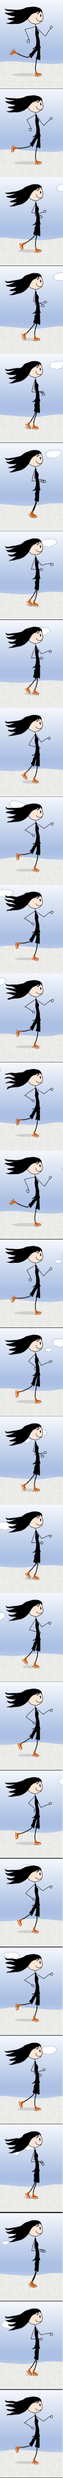
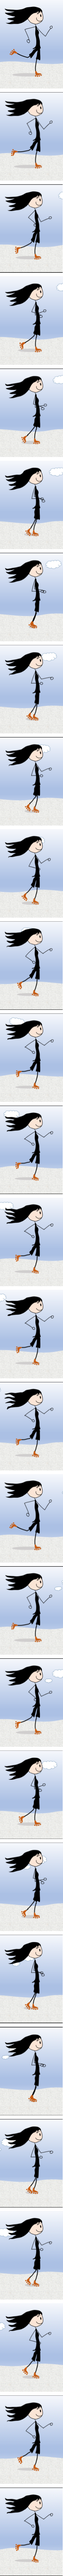
20180723-04

diff --git a/docs/out.js b/docs/out.js
@@ -97,6 +97,28 @@ eval("// extracted by mini-css-extract-plugin\n\n//# sourceURL=webpack:///./css/
 
 /***/ }),
 
+/***/ "./img/github.png":
+/*!************************!*\
+  !*** ./img/github.png ***!
+  \************************/
+/*! no static exports found */
+/***/ (function(module, exports) {
+
+eval("module.exports = \"images/github.png\";\n\n//# sourceURL=webpack:///./img/github.png?");
+
+/***/ }),
+
+/***/ "./img/linkedin.png":
+/*!**************************!*\
+  !*** ./img/linkedin.png ***!
+  \**************************/
+/*! no static exports found */
+/***/ (function(module, exports) {
+
+eval("module.exports = \"images/linkedin.png\";\n\n//# sourceURL=webpack:///./img/linkedin.png?");
+
+/***/ }),
+
 /***/ "./js/AboutMe.jsx":
 /*!************************!*\
   !*** ./js/AboutMe.jsx ***!
@@ -141,7 +163,7 @@ eval("\n\nvar _createClass = function () { function defineProperties(target, pro
 /***/ (function(module, exports, __webpack_require__) {
 
 "use strict";
-eval("\n\nvar _createClass = function () { function defineProperties(target, props) { for (var i = 0; i < props.length; i++) { var descriptor = props[i]; descriptor.enumerable = descriptor.enumerable || false; descriptor.configurable = true; if (\"value\" in descriptor) descriptor.writable = true; Object.defineProperty(target, descriptor.key, descriptor); } } return function (Constructor, protoProps, staticProps) { if (protoProps) defineProperties(Constructor.prototype, protoProps); if (staticProps) defineProperties(Constructor, staticProps); return Constructor; }; }();\n\nvar _react = __webpack_require__(/*! react */ \"./node_modules/react/react.js\");\n\nvar _react2 = _interopRequireDefault(_react);\n\nfunction _interopRequireDefault(obj) { return obj && obj.__esModule ? obj : { default: obj }; }\n\nfunction _classCallCheck(instance, Constructor) { if (!(instance instanceof Constructor)) { throw new TypeError(\"Cannot call a class as a function\"); } }\n\nfunction _possibleConstructorReturn(self, call) { if (!self) { throw new ReferenceError(\"this hasn't been initialised - super() hasn't been called\"); } return call && (typeof call === \"object\" || typeof call === \"function\") ? call : self; }\n\nfunction _inherits(subClass, superClass) { if (typeof superClass !== \"function\" && superClass !== null) { throw new TypeError(\"Super expression must either be null or a function, not \" + typeof superClass); } subClass.prototype = Object.create(superClass && superClass.prototype, { constructor: { value: subClass, enumerable: false, writable: true, configurable: true } }); if (superClass) Object.setPrototypeOf ? Object.setPrototypeOf(subClass, superClass) : subClass.__proto__ = superClass; }\n\nvar Hobbies = function (_React$Component) {\n    _inherits(Hobbies, _React$Component);\n\n    function Hobbies(props) {\n        _classCallCheck(this, Hobbies);\n\n        var _this = _possibleConstructorReturn(this, (Hobbies.__proto__ || Object.getPrototypeOf(Hobbies)).call(this, props));\n\n        _this.state = {\n            spritePosition: 0\n        };\n        return _this;\n    }\n\n    _createClass(Hobbies, [{\n        key: 'componentDidMount',\n        value: function componentDidMount() {\n            var _this2 = this;\n\n            var count = 0;\n            this.intervalId = setInterval(function () {\n                if (count > 27) {\n                    _this2.setState({\n                        spritePosition: 0\n                    });\n                    count = 0;\n                } else {\n                    _this2.setState({\n                        spritePosition: _this2.state.spritePosition - 244\n                    });\n                }\n                count++;\n                console.log(count);\n            }, 100);\n        }\n    }, {\n        key: 'componentWillUnmount',\n        value: function componentWillUnmount() {\n            clearInterval(this.intervalId);\n        }\n    }, {\n        key: 'render',\n        value: function render() {\n            var style = { backgroundPosition: \"0 \" + this.state.spritePosition.toString() + 'px' };\n            return _react2.default.createElement(\n                'section',\n                { id: 'hobbies' },\n                _react2.default.createElement(\n                    'section',\n                    { className: 'mainWidth' },\n                    _react2.default.createElement('div', { style: style, id: 'sprite' }),\n                    _react2.default.createElement(\n                        'p',\n                        null,\n                        'Yes - active life style is one of my hobbies. I will try to show here also the other ones - soon :-) '\n                    )\n                )\n            );\n        }\n    }]);\n\n    return Hobbies;\n}(_react2.default.Component);\n\nmodule.exports = Hobbies;\n\n//# sourceURL=webpack:///./js/Components/Hobbies.jsx?");
+eval("\n\nvar _createClass = function () { function defineProperties(target, props) { for (var i = 0; i < props.length; i++) { var descriptor = props[i]; descriptor.enumerable = descriptor.enumerable || false; descriptor.configurable = true; if (\"value\" in descriptor) descriptor.writable = true; Object.defineProperty(target, descriptor.key, descriptor); } } return function (Constructor, protoProps, staticProps) { if (protoProps) defineProperties(Constructor.prototype, protoProps); if (staticProps) defineProperties(Constructor, staticProps); return Constructor; }; }();\n\nvar _react = __webpack_require__(/*! react */ \"./node_modules/react/react.js\");\n\nvar _react2 = _interopRequireDefault(_react);\n\nfunction _interopRequireDefault(obj) { return obj && obj.__esModule ? obj : { default: obj }; }\n\nfunction _classCallCheck(instance, Constructor) { if (!(instance instanceof Constructor)) { throw new TypeError(\"Cannot call a class as a function\"); } }\n\nfunction _possibleConstructorReturn(self, call) { if (!self) { throw new ReferenceError(\"this hasn't been initialised - super() hasn't been called\"); } return call && (typeof call === \"object\" || typeof call === \"function\") ? call : self; }\n\nfunction _inherits(subClass, superClass) { if (typeof superClass !== \"function\" && superClass !== null) { throw new TypeError(\"Super expression must either be null or a function, not \" + typeof superClass); } subClass.prototype = Object.create(superClass && superClass.prototype, { constructor: { value: subClass, enumerable: false, writable: true, configurable: true } }); if (superClass) Object.setPrototypeOf ? Object.setPrototypeOf(subClass, superClass) : subClass.__proto__ = superClass; }\n\nvar Hobbies = function (_React$Component) {\n    _inherits(Hobbies, _React$Component);\n\n    function Hobbies(props) {\n        _classCallCheck(this, Hobbies);\n\n        var _this = _possibleConstructorReturn(this, (Hobbies.__proto__ || Object.getPrototypeOf(Hobbies)).call(this, props));\n\n        _this.state = {\n            spritePosition: 0\n        };\n        return _this;\n    }\n\n    _createClass(Hobbies, [{\n        key: 'componentDidMount',\n        value: function componentDidMount() {\n            var _this2 = this;\n\n            var count = 0;\n            this.intervalId = setInterval(function () {\n                if (count > 26) {\n                    _this2.setState({\n                        spritePosition: 0\n                    });\n                    count = 0;\n                } else {\n                    _this2.setState({\n                        spritePosition: _this2.state.spritePosition - 254\n                    });\n                }\n                count++;\n                console.log(count);\n            }, 100);\n        }\n    }, {\n        key: 'componentWillUnmount',\n        value: function componentWillUnmount() {\n            clearInterval(this.intervalId);\n        }\n    }, {\n        key: 'render',\n        value: function render() {\n            var style = { backgroundPosition: \"0 \" + this.state.spritePosition.toString() + 'px' };\n            return _react2.default.createElement(\n                'section',\n                { id: 'hobbies' },\n                _react2.default.createElement(\n                    'section',\n                    { className: 'mainWidth' },\n                    _react2.default.createElement('div', { style: style, id: 'sprite' }),\n                    _react2.default.createElement(\n                        'p',\n                        null,\n                        'Yes - active life style is one of my hobbies. I will try to show here also the other ones - soon :-) '\n                    )\n                )\n            );\n        }\n    }]);\n\n    return Hobbies;\n}(_react2.default.Component);\n\nmodule.exports = Hobbies;\n\n//# sourceURL=webpack:///./js/Components/Hobbies.jsx?");
 
 /***/ }),
 
@@ -189,7 +211,7 @@ eval("\n\nvar _createClass = function () { function defineProperties(target, pro
 /***/ (function(module, exports, __webpack_require__) {
 
 "use strict";
-eval("\n\nvar _createClass = function () { function defineProperties(target, props) { for (var i = 0; i < props.length; i++) { var descriptor = props[i]; descriptor.enumerable = descriptor.enumerable || false; descriptor.configurable = true; if (\"value\" in descriptor) descriptor.writable = true; Object.defineProperty(target, descriptor.key, descriptor); } } return function (Constructor, protoProps, staticProps) { if (protoProps) defineProperties(Constructor.prototype, protoProps); if (staticProps) defineProperties(Constructor, staticProps); return Constructor; }; }();\n\nvar _react = __webpack_require__(/*! react */ \"./node_modules/react/react.js\");\n\nvar _react2 = _interopRequireDefault(_react);\n\nfunction _interopRequireDefault(obj) { return obj && obj.__esModule ? obj : { default: obj }; }\n\nfunction _classCallCheck(instance, Constructor) { if (!(instance instanceof Constructor)) { throw new TypeError(\"Cannot call a class as a function\"); } }\n\nfunction _possibleConstructorReturn(self, call) { if (!self) { throw new ReferenceError(\"this hasn't been initialised - super() hasn't been called\"); } return call && (typeof call === \"object\" || typeof call === \"function\") ? call : self; }\n\nfunction _inherits(subClass, superClass) { if (typeof superClass !== \"function\" && superClass !== null) { throw new TypeError(\"Super expression must either be null or a function, not \" + typeof superClass); } subClass.prototype = Object.create(superClass && superClass.prototype, { constructor: { value: subClass, enumerable: false, writable: true, configurable: true } }); if (superClass) Object.setPrototypeOf ? Object.setPrototypeOf(subClass, superClass) : subClass.__proto__ = superClass; }\n\nvar MyStory = function (_React$Component) {\n    _inherits(MyStory, _React$Component);\n\n    function MyStory() {\n        _classCallCheck(this, MyStory);\n\n        return _possibleConstructorReturn(this, (MyStory.__proto__ || Object.getPrototypeOf(MyStory)).apply(this, arguments));\n    }\n\n    _createClass(MyStory, [{\n        key: \"render\",\n        value: function render() {\n            return _react2.default.createElement(\n                \"section\",\n                { id: \"myStory\" },\n                _react2.default.createElement(\n                    \"section\",\n                    { className: \"mainWidth\" },\n                    _react2.default.createElement(\n                        \"div\",\n                        null,\n                        \"my coding story will come here soon\"\n                    )\n                )\n            );\n        }\n    }]);\n\n    return MyStory;\n}(_react2.default.Component);\n\nmodule.exports = MyStory;\n\n//# sourceURL=webpack:///./js/Components/MyStory.jsx?");
+eval("\n\nvar _createClass = function () { function defineProperties(target, props) { for (var i = 0; i < props.length; i++) { var descriptor = props[i]; descriptor.enumerable = descriptor.enumerable || false; descriptor.configurable = true; if (\"value\" in descriptor) descriptor.writable = true; Object.defineProperty(target, descriptor.key, descriptor); } } return function (Constructor, protoProps, staticProps) { if (protoProps) defineProperties(Constructor.prototype, protoProps); if (staticProps) defineProperties(Constructor, staticProps); return Constructor; }; }();\n\nvar _react = __webpack_require__(/*! react */ \"./node_modules/react/react.js\");\n\nvar _react2 = _interopRequireDefault(_react);\n\nfunction _interopRequireDefault(obj) { return obj && obj.__esModule ? obj : { default: obj }; }\n\nfunction _classCallCheck(instance, Constructor) { if (!(instance instanceof Constructor)) { throw new TypeError(\"Cannot call a class as a function\"); } }\n\nfunction _possibleConstructorReturn(self, call) { if (!self) { throw new ReferenceError(\"this hasn't been initialised - super() hasn't been called\"); } return call && (typeof call === \"object\" || typeof call === \"function\") ? call : self; }\n\nfunction _inherits(subClass, superClass) { if (typeof superClass !== \"function\" && superClass !== null) { throw new TypeError(\"Super expression must either be null or a function, not \" + typeof superClass); } subClass.prototype = Object.create(superClass && superClass.prototype, { constructor: { value: subClass, enumerable: false, writable: true, configurable: true } }); if (superClass) Object.setPrototypeOf ? Object.setPrototypeOf(subClass, superClass) : subClass.__proto__ = superClass; }\n\nvar MyStory = function (_React$Component) {\n    _inherits(MyStory, _React$Component);\n\n    function MyStory() {\n        _classCallCheck(this, MyStory);\n\n        return _possibleConstructorReturn(this, (MyStory.__proto__ || Object.getPrototypeOf(MyStory)).apply(this, arguments));\n    }\n\n    _createClass(MyStory, [{\n        key: \"render\",\n        value: function render() {\n            return _react2.default.createElement(\n                \"section\",\n                { id: \"myStory\" },\n                _react2.default.createElement(\n                    \"section\",\n                    { className: \"mainWidth\" },\n                    _react2.default.createElement(\n                        \"div\",\n                        null,\n                        \"In my professional life I have been dealing with databases, statistical surveys and logistics until now. I have decided to change the industry and take care of coding, because coding gives me satisfaction and motivates to learn and work more. Until now, I have had the opportunity to program during the implementation of Oracle databases (\",\n                        _react2.default.createElement(\n                            \"span\",\n                            { className: \"color\" },\n                            \" in PL/SQL \"\n                        ),\n                        \") and using an Excel spread sheet (\",\n                        _react2.default.createElement(\n                            \"span\",\n                            { className: \"color\" },\n                            \" using VBA \"\n                        ),\n                        \"), now I would like to deal with it professionally.\"\n                    ),\n                    _react2.default.createElement(\n                        \"div\",\n                        null,\n                        \"And why \",\n                        _react2.default.createElement(\n                            \"span\",\n                            { className: \"color\" },\n                            \"Front-end\"\n                        ),\n                        \" ? While I was working with Oracle database I took care of forms and reports, so it was front-end of the system. And also - good cooperation with the customers is one of my skills, so Front-end was a natural choice for me.\"\n                    )\n                )\n            );\n        }\n    }]);\n\n    return MyStory;\n}(_react2.default.Component);\n\nmodule.exports = MyStory;\n\n//# sourceURL=webpack:///./js/Components/MyStory.jsx?");
 
 /***/ }),
 
@@ -213,7 +235,7 @@ eval("\n\nvar _createClass = function () { function defineProperties(target, pro
 /***/ (function(module, exports, __webpack_require__) {
 
 "use strict";
-eval("\n\nvar _createClass = function () { function defineProperties(target, props) { for (var i = 0; i < props.length; i++) { var descriptor = props[i]; descriptor.enumerable = descriptor.enumerable || false; descriptor.configurable = true; if (\"value\" in descriptor) descriptor.writable = true; Object.defineProperty(target, descriptor.key, descriptor); } } return function (Constructor, protoProps, staticProps) { if (protoProps) defineProperties(Constructor.prototype, protoProps); if (staticProps) defineProperties(Constructor, staticProps); return Constructor; }; }();\n\nvar _react = __webpack_require__(/*! react */ \"./node_modules/react/react.js\");\n\nvar _react2 = _interopRequireDefault(_react);\n\nfunction _interopRequireDefault(obj) { return obj && obj.__esModule ? obj : { default: obj }; }\n\nfunction _classCallCheck(instance, Constructor) { if (!(instance instanceof Constructor)) { throw new TypeError(\"Cannot call a class as a function\"); } }\n\nfunction _possibleConstructorReturn(self, call) { if (!self) { throw new ReferenceError(\"this hasn't been initialised - super() hasn't been called\"); } return call && (typeof call === \"object\" || typeof call === \"function\") ? call : self; }\n\nfunction _inherits(subClass, superClass) { if (typeof superClass !== \"function\" && superClass !== null) { throw new TypeError(\"Super expression must either be null or a function, not \" + typeof superClass); } subClass.prototype = Object.create(superClass && superClass.prototype, { constructor: { value: subClass, enumerable: false, writable: true, configurable: true } }); if (superClass) Object.setPrototypeOf ? Object.setPrototypeOf(subClass, superClass) : subClass.__proto__ = superClass; }\n\nvar Footer = function (_React$Component) {\n    _inherits(Footer, _React$Component);\n\n    function Footer(props) {\n        _classCallCheck(this, Footer);\n\n        var _this = _possibleConstructorReturn(this, (Footer.__proto__ || Object.getPrototypeOf(Footer)).call(this, props));\n\n        _this.state = {\n            deg: 0\n        };\n        return _this;\n    }\n\n    _createClass(Footer, [{\n        key: \"componentDidMount\",\n        value: function componentDidMount() {\n            var _this2 = this;\n\n            this.intervalId = setInterval(function () {\n                var count = 0;\n                var intervalId1 = setInterval(function () {\n                    _this2.setState({\n                        deg: _this2.state.deg + 1\n                    });\n                    count++;\n                    if (count >= 90) {\n                        clearInterval(intervalId1);\n                    }\n                }, 50);\n\n                setTimeout(function () {\n                    var intervalId2 = setInterval(function () {\n                        _this2.setState({\n                            deg: _this2.state.deg - 1\n                        });\n                        count++;\n                        if (count >= 180) {\n                            clearInterval(intervalId2);\n                        }\n                    }, 50);\n                }, 10000);\n            }, 50000);\n        }\n    }, {\n        key: \"componentWillUnmount\",\n        value: function componentWillUnmount() {\n            clearInterval(this.intervalId);\n        }\n    }, {\n        key: \"render\",\n        value: function render() {\n            var style1 = {\n                transform: \"rotate(\" + (-this.state.deg).toString() + \"deg)\"\n            };\n            var style2 = {\n                transform: \"rotate(\" + this.state.deg.toString() + \"deg)\"\n            };\n            return _react2.default.createElement(\n                \"footer\",\n                null,\n                _react2.default.createElement(\n                    \"section\",\n                    { className: \"mainWidth footerBox\" },\n                    _react2.default.createElement(\n                        \"div\",\n                        null,\n                        _react2.default.createElement(\n                            \"span\",\n                            null,\n                            \"LUCYNA RUDZKA @2018\"\n                        )\n                    ),\n                    _react2.default.createElement(\n                        \"div\",\n                        null,\n                        _react2.default.createElement(\n                            \"span\",\n                            null,\n                            _react2.default.createElement(\n                                \"span\",\n                                { className: \"color\" },\n                                \" CONTACT:\"\n                            ),\n                            \" lrudzka@onet.eu\"\n                        ),\n                        _react2.default.createElement(\n                            \"a\",\n                            { href: \"https://github.com/lrudzka\", target: \"_blank\" },\n                            _react2.default.createElement(\"img\", { src: \"../img/github.png\", alt: \"my github profile\", title: \"my github profile\", style: style1 })\n                        ),\n                        _react2.default.createElement(\n                            \"a\",\n                            { href: \"https://www.linkedin.com/in/lucyna-rudzka/\", target: \"_blank\" },\n                            _react2.default.createElement(\"img\", { src: \"../img/linkedin.png\", alt: \"my linkedin profile\", title: \"my linkedin profile\", style: style2 })\n                        )\n                    )\n                )\n            );\n        }\n    }]);\n\n    return Footer;\n}(_react2.default.Component);\n\nmodule.exports = Footer;\n\n//# sourceURL=webpack:///./js/Footer.jsx?");
+eval("\n\nvar _createClass = function () { function defineProperties(target, props) { for (var i = 0; i < props.length; i++) { var descriptor = props[i]; descriptor.enumerable = descriptor.enumerable || false; descriptor.configurable = true; if (\"value\" in descriptor) descriptor.writable = true; Object.defineProperty(target, descriptor.key, descriptor); } } return function (Constructor, protoProps, staticProps) { if (protoProps) defineProperties(Constructor.prototype, protoProps); if (staticProps) defineProperties(Constructor, staticProps); return Constructor; }; }();\n\nvar _react = __webpack_require__(/*! react */ \"./node_modules/react/react.js\");\n\nvar _react2 = _interopRequireDefault(_react);\n\nvar _github = __webpack_require__(/*! ../img/github.png */ \"./img/github.png\");\n\nvar _github2 = _interopRequireDefault(_github);\n\nvar _linkedin = __webpack_require__(/*! ../img/linkedin.png */ \"./img/linkedin.png\");\n\nvar _linkedin2 = _interopRequireDefault(_linkedin);\n\nfunction _interopRequireDefault(obj) { return obj && obj.__esModule ? obj : { default: obj }; }\n\nfunction _classCallCheck(instance, Constructor) { if (!(instance instanceof Constructor)) { throw new TypeError(\"Cannot call a class as a function\"); } }\n\nfunction _possibleConstructorReturn(self, call) { if (!self) { throw new ReferenceError(\"this hasn't been initialised - super() hasn't been called\"); } return call && (typeof call === \"object\" || typeof call === \"function\") ? call : self; }\n\nfunction _inherits(subClass, superClass) { if (typeof superClass !== \"function\" && superClass !== null) { throw new TypeError(\"Super expression must either be null or a function, not \" + typeof superClass); } subClass.prototype = Object.create(superClass && superClass.prototype, { constructor: { value: subClass, enumerable: false, writable: true, configurable: true } }); if (superClass) Object.setPrototypeOf ? Object.setPrototypeOf(subClass, superClass) : subClass.__proto__ = superClass; }\n\nvar Footer = function (_React$Component) {\n    _inherits(Footer, _React$Component);\n\n    function Footer(props) {\n        _classCallCheck(this, Footer);\n\n        var _this = _possibleConstructorReturn(this, (Footer.__proto__ || Object.getPrototypeOf(Footer)).call(this, props));\n\n        _this.state = {\n            deg: 0\n        };\n        return _this;\n    }\n\n    _createClass(Footer, [{\n        key: 'componentDidMount',\n        value: function componentDidMount() {\n            var _this2 = this;\n\n            this.intervalId = setInterval(function () {\n                var count = 0;\n                var intervalId1 = setInterval(function () {\n                    _this2.setState({\n                        deg: _this2.state.deg + 1\n                    });\n                    count++;\n                    if (count >= 90) {\n                        clearInterval(intervalId1);\n                    }\n                }, 50);\n\n                setTimeout(function () {\n                    var intervalId2 = setInterval(function () {\n                        _this2.setState({\n                            deg: _this2.state.deg - 1\n                        });\n                        count++;\n                        if (count >= 180) {\n                            clearInterval(intervalId2);\n                        }\n                    }, 50);\n                }, 10000);\n            }, 50000);\n        }\n    }, {\n        key: 'componentWillUnmount',\n        value: function componentWillUnmount() {\n            clearInterval(this.intervalId);\n        }\n    }, {\n        key: 'render',\n        value: function render() {\n            var style1 = {\n                transform: \"rotate(\" + (-this.state.deg).toString() + \"deg)\"\n            };\n            var style2 = {\n                transform: \"rotate(\" + this.state.deg.toString() + \"deg)\"\n            };\n            return _react2.default.createElement(\n                'footer',\n                null,\n                _react2.default.createElement(\n                    'section',\n                    { className: 'mainWidth footerBox' },\n                    _react2.default.createElement(\n                        'div',\n                        null,\n                        _react2.default.createElement(\n                            'span',\n                            null,\n                            'LUCYNA RUDZKA @2018'\n                        )\n                    ),\n                    _react2.default.createElement(\n                        'div',\n                        null,\n                        _react2.default.createElement(\n                            'span',\n                            null,\n                            _react2.default.createElement(\n                                'span',\n                                { className: 'color' },\n                                ' CONTACT:'\n                            ),\n                            ' lrudzka@onet.eu'\n                        ),\n                        _react2.default.createElement(\n                            'a',\n                            { href: 'https://github.com/lrudzka', target: '_blank' },\n                            _react2.default.createElement('img', { src: _github2.default, alt: 'my github profile', title: 'my github profile', style: style1 })\n                        ),\n                        _react2.default.createElement(\n                            'a',\n                            { href: 'https://www.linkedin.com/in/lucyna-rudzka/', target: '_blank' },\n                            _react2.default.createElement('img', { src: _linkedin2.default, alt: 'my linkedin profile', title: 'my linkedin profile', style: style2 })\n                        )\n                    )\n                )\n            );\n        }\n    }]);\n\n    return Footer;\n}(_react2.default.Component);\n\nmodule.exports = Footer;\n\n//# sourceURL=webpack:///./js/Footer.jsx?");
 
 /***/ }),
 

diff --git a/js/Components/MyStory.jsx b/js/Components/MyStory.jsx
@@ -7,7 +7,17 @@ class MyStory extends React.Component {
             <section id="myStory">
                 <section className="mainWidth">
                     <div>
-                        my coding story will come here soon
+                        In my professional life I have been dealing with databases, statistical surveys and logistics
+                        until now. I have decided to change the industry and take care of coding, because
+                        coding gives me satisfaction and motivates to learn and work more. Until now, I
+                        have had the opportunity to program during the implementation of Oracle databases (<span className="color"> in
+                        PL/SQL </span>) and using an Excel spread sheet (<span className="color"> using VBA </span>), now I would like to deal with it
+                        professionally.
+                    </div>
+                    <div>
+                        And why <span className="color">Front-end</span> ? While I was working with Oracle database I took care of forms and reports,
+                        so it was front-end of the system. And also - good cooperation with the customers is one of my skills, so Front-end was a natural
+                        choice for me.
                     </div>
                 </section>
             </section>

diff --git a/js/Footer.jsx b/js/Footer.jsx
@@ -1,4 +1,6 @@
 import React from 'react';
+import githubLogo from '../img/github.png';
+import linkedinLogo from '../img/linkedin.png';
 
 class Footer extends React.Component{
     constructor(props){
@@ -57,10 +59,10 @@ class Footer extends React.Component{
                     <div>
                         <span><span className="color"> CONTACT:</span> lrudzka@onet.eu</span>
                     <a href="https://github.com/lrudzka" target="_blank">
-                        <img src="../img/github.png" alt="my github profile" title="my github profile" style={style1}></img>
+                        <img src={githubLogo} alt="my github profile" title="my github profile" style={style1}></img>
                     </a>
                     <a href="https://www.linkedin.com/in/lucyna-rudzka/" target="_blank">
-                        <img src="../img/linkedin.png" alt="my linkedin profile" title="my linkedin profile" style={style2}></img>
+                        <img src={linkedinLogo} alt="my linkedin profile" title="my linkedin profile" style={style2}></img>
                     </a>
                     </div>
                 </section>

diff --git a/js/Components/Hobbies.jsx b/js/Components/Hobbies.jsx
@@ -11,14 +11,14 @@ class Hobbies extends React.Component {
     componentDidMount() {
         let count=0;
         this.intervalId = setInterval( () => {
-            if (count>27) {
+            if (count>26) {
                 this.setState({
                     spritePosition: 0
                 })
                 count=0;
             } else {
                 this.setState({
-                    spritePosition: this.state.spritePosition - 244
+                    spritePosition: this.state.spritePosition - 254
             })
             }
             count++;

diff --git a/docs/style.css b/docs/style.css
@@ -185,6 +185,11 @@ section#body {
   section#body section#myStory {
     padding: 1em;
     font-family: Handlee; }
+    section#body section#myStory span.color {
+      color: #25AAA0;
+      font-weight: bold; }
+    section#body section#myStory div {
+      margin-top: 1em; }
 
 footer {
   font-family: 'Handlee';

diff --git a/css/components/_main.scss b/css/components/_main.scss
@@ -192,5 +192,12 @@ section#body{
   section#myStory {
     padding: 1em;
     font-family: Handlee;
+    span.color {
+      color: map-get($colors, color1);
+      font-weight: bold;
+    }
+    div {
+      margin-top: 1em;
+    }
   }
 }
